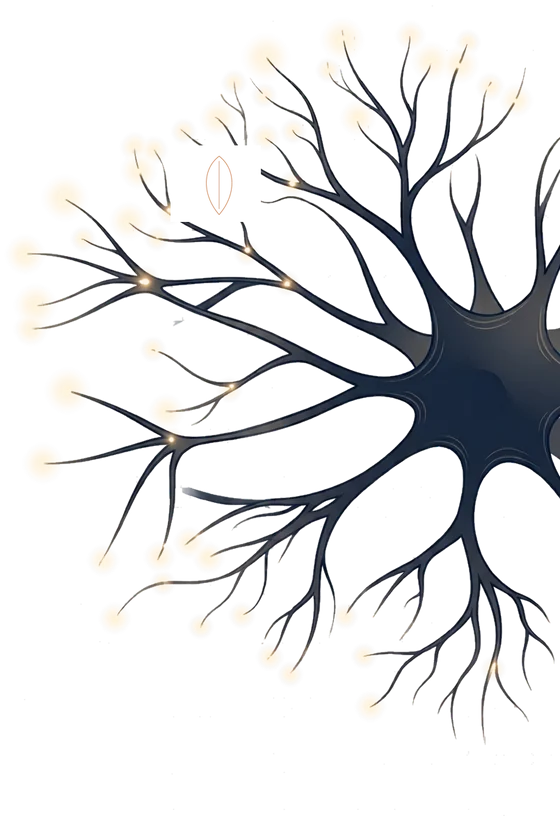
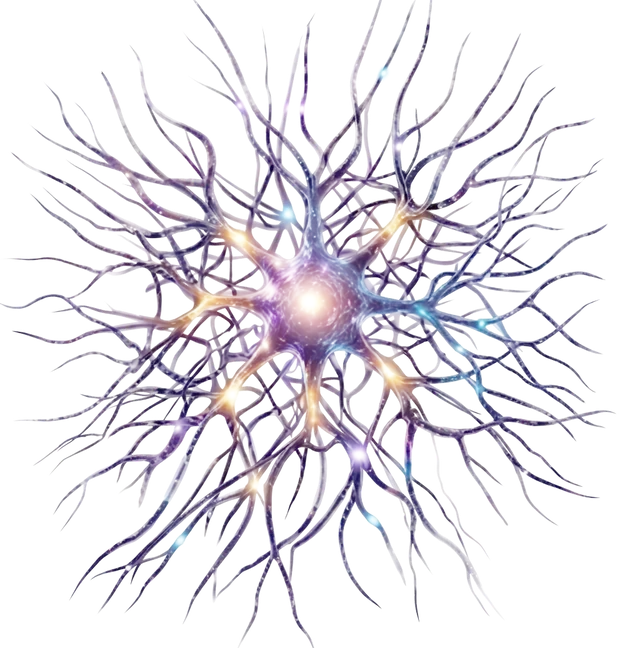
Método: reemplazar neuronas decorativas laterales por nueva ilustración
Se reemplazó el contenido de neurona-izquierda.webp y neurona-derecha.webp
(misma posición, mismo style inline, index.html sin cambios) por la
ilustración de neurona completa provista por el usuario, con el fondo
blanco convertido a transparente. Actualiza memoria.md y changelog.md.

diff --git a/memoria.md b/memoria.md
@@ -220,6 +220,27 @@ próximos pasos).
   Verificado con Playwright, desktop 1440px y mobile 390px — no rompe el
   layout de las columnas (`.ben-grid`, `.contact-wrap`) ni el ancho del
   `<h2>` (`max-width:14ch` sin cambios).
+- **Método (`#lam-03`) — neuronas decorativas laterales reemplazadas**
+  (sesión 2026-09-15): los 2 `<img class="deco deco-fruit">` sueltos a
+  los costados del título (`neurona-izquierda.webp` a la izquierda,
+  `neurona-derecha.webp` a la derecha — mismos nombres de archivo, mismo
+  `style` inline con `left`/`right`/`top`/`width`, sin tocar
+  `index.html`) ahora usan una sola ilustración nueva provista por el
+  usuario: neurona completa vista de frente (cuerpo dorado/violeta
+  brillante al centro, dendritas azul/violeta/dorado irradiando en
+  círculo), a diferencia de los assets anteriores que eran **medias
+  neuronas** recortadas (cuerpo cortado en el borde de la página,
+  pensadas para la posición de bleed). Se le quitó el fondo blanco
+  (conversión a alpha por canal, blanco puro → transparente) para que
+  siga flotando sobre el crema de `#lam-03` igual que antes, y se
+  reexportó a `.webp` (~640px de ancho, calidad 82) — ambos archivos
+  quedaron con el mismo contenido (no hay versión espejada). Como la
+  posición/tamaño no cambiaron, el resultado visual es la misma
+  ilustración completa "sangrando" en las mismas esquinas donde antes
+  solo se veía la mitad de la neurona. Verificado con Playwright,
+  desktop 1440px (visible) y mobile 390px (sigue oculto por la regla
+  general `@media(max-width:720px){.deco-fruit{display:none}}`, sin
+  cambios).
 - **"Mi plan"** es el flujo más complejo del sitio: página propia,
   dashboard de 2 columnas (`.miplan-grid`/`.miplan-detalle-grid`), medidor
   de IMC tipo velocímetro, gráfico de barras Foco/Memoria/Energía/Calma

diff --git a/changelog.md b/changelog.md
@@ -8,6 +8,26 @@
 > wizard de nutrición, "Mi plan", backend, ilustraciones, etc.) quedó
 > archivado completo en `historico/changelog-2026-09-14.md`.
 
+## 2026-09-15 (quinceava tanda) — Método (lam-03): nueva ilustración de neurona en los 2 decorativos laterales
+
+A pedido del usuario, que subió una imagen (neurona completa vista de
+frente, generada con IA, fondo blanco): se reemplazó el contenido de
+`img/decoraciones-neurona/neurona-izquierda.webp` y
+`neurona-derecha.webp` (mismos nombres de archivo, no se tocó
+`index.html` ni el `style` inline de posición/tamaño de los `<img
+class="deco deco-fruit">` que los usan en `#lam-03`). Los assets
+anteriores eran medias neuronas recortadas (pensadas para sangrar en el
+borde); la imagen nueva es la neurona completa, así que ahora se ve
+entera en la esquina en vez de solo la mitad — el usuario pidió
+explícitamente mantener la misma posición, no recortarla de nuevo. Se le
+quitó el fondo blanco (blanco puro → alpha 0, gradual según cercanía al
+blanco para conservar el degradé del resplandor central) para que siga
+flotando sobre el crema de la sección, y se reexportó a `.webp` (~640px
+de ancho, calidad 82, ambos archivos con el mismo contenido, sin
+espejar). Verificado con Playwright: desktop 1440px (la neurona nueva se
+ve completa en las 2 esquinas, mismo lugar que antes) y mobile 390px
+(sigue oculta, sin cambios en esa regla).
+
 ## 2026-09-15 (catorceava tanda) — Visión (lam-02): borde morado fino en las 4 tarjetas y párrafo más grande
 
 A pedido del usuario (mandó captura de la sección Visión): las 4
